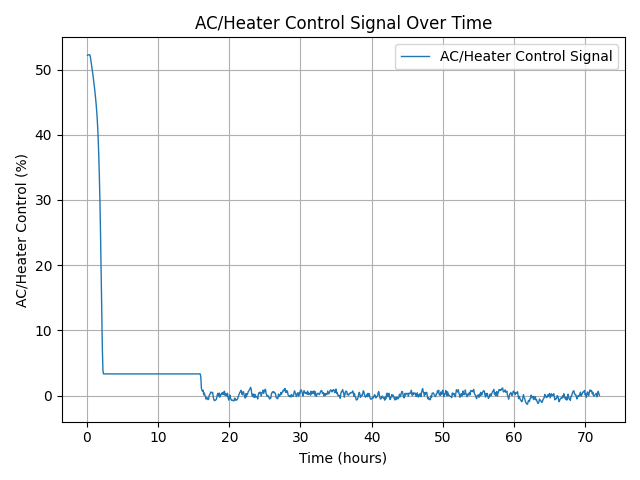
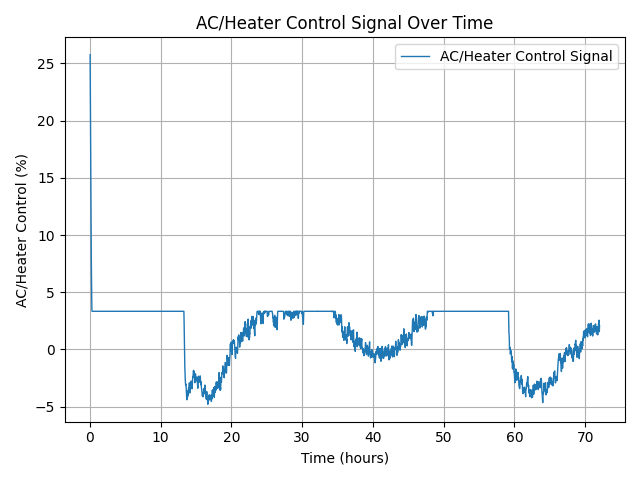
dr gill's suggestions actually were an instant fix. holy shit this is insane

diff --git a/environment_simulator.py b/environment_simulator.py
@@ -10,8 +10,8 @@ def specific_heat_by_humidity(humidity):
 
 def calc_new_temp_and_hum(temp, humidity, ac_heater_control, humidifier_control, hour, step_seconds, splines, ac_heater_max_power=1000, wall_heat_loss_factor=1):
 
-    # Square floor 10 meters, 3 meters tall
-    room_volume = 10 * 10 * 3 # in cubic meters
+    # Square floor 8 meters, 3 meters tall
+    room_volume = 8 * 8 * 3 # in cubic meters
 
     air_density = 1.225 # kg/m^3 at sea level
 
@@ -26,8 +26,8 @@ def calc_new_temp_and_hum(temp, humidity, ac_heater_control, humidifier_control,
 
     sum_power = ac_heater_power
 
-    thermal_conductivity = 0.002  # W/(m·K) Concrete
-    wall_area = 10 * 3 * 4  # m^2 (4 walls, 3m tall, 10m wide)
+    thermal_conductivity = 0.03  # W/(m·K) Concrete
+    wall_area = 8 * 3 * 4  # m^2 (4 walls, 3m tall, 8m wide)
     wall_thickness = 0.2 # m
     outdoor_temp = splines["temperature"](hour)  # in Celsius
     temp_difference = temp - outdoor_temp # in Celsius

diff --git a/system.py b/system.py
@@ -22,8 +22,10 @@ cur_time = start
 
 outdoor_temps = [16.3]
 
-initial_temp = -5 + splines['temperature'](0) * random.uniform(0.9, 1.1)  # %10 variation in initial temperature
-initial_hum = 5 + splines['humidity'](0) * random.uniform(0.9, 1.1)  # %10 variation in initial humidity
+#initial_temp = -5 + splines['temperature'](0) * random.uniform(0.9, 1.1)  # %10 variation in initial temperature
+initial_temp = 17.5
+initial_hum = 50.0
+#initial_hum = 5 + splines['humidity'](0) * random.uniform(0.9, 1.1)  # %10 variation in initial humidity
 initial_delta_temp = 0  # Initial change in temperature
 #initial_delta_hum = -5  # Initial change in humidity
 
